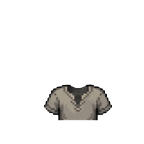
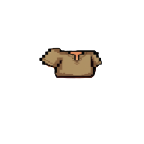
UI: 布の服と鎖の鎧の装備位置を微調整

Changed region(s): [[0.3056, 0.5833, 0.7778, 0.8611], [0.25, 0.3333, 0.7222, 0.5556]]

diff --git a/script.js b/script.js
@@ -677,7 +677,7 @@ const ITEM_MASTER = [
     // ★1 (Rarity 1)
     // visuals: { x: 横位置(%), y: 縦位置(%), scale: 拡大率, width: 幅(任意, 指定なければ100%でscale適用) }
     { id: 0, name: "木の剣", rarity: 1, file: "小さな剣.png", type: "weapon", effects: { focus: 2 }, description: "冒険の始まりといえばこれ。", equipMessage: "木の剣を構えた！少し攻撃的な気分になった！", visuals: { x: 30, y: 35, width: 15 }, equipImage: "./assets/player_sword_fixed.png" },
-    { id: 1, name: "布の服", rarity: 1, file: "布の服.png", type: "armor", effects: { strength: 2 }, description: "軽くて動きやすい。", equipMessage: "布の服を身に纏った。防御力がわずかに上がった。", visuals: { x: 0, y: -1.3, width: 100, origin: "left" }, equipImage: "assets/item/gacha_equipment/布の服.png" },
+    { id: 1, name: "布の服", rarity: 1, file: "布の服.png", type: "armor", effects: { strength: 2 }, description: "軽くて動きやすい。", equipMessage: "布の服を身に纏った。防御力がわずかに上がった。", visuals: { x: 5, y: 24, width: 100, origin: "left" }, equipImage: "assets/item/gacha_equipment/布の服.png" },
     { id: 2, name: "革の靴", rarity: 1, file: "革の靴.png", type: "foot", effects: { focus: 1 }, description: "長時間の勉強（冒険）でも疲れない。", equipMessage: "革の靴を履いた！足取りが軽くなった気がする。", visuals: { x_L: 38, x_R: 58, y: 87.5, width: 16 }, equipImage: "./assets/item/gacha_equipment/Boots2M.png", equipImageR: "./assets/item/gacha_equipment/Boots2M.png" },
     { id: 3, name: "小さな盾", rarity: 1, file: "小さな盾.png", type: "shield", effects: { strength: 1 }, description: "誘惑を跳ね返すための盾。", equipMessage: "小さな盾を構えた！少しだけ守りが固くなった。", visuals: { x: 25, y: 70, width: 30 }, equipImage: "./assets/item/gacha_items/小さな盾_equipped.png" },
     { id: 4, name: "ポーション", rarity: 1, file: "ポーション.png", type: "consumable", useMessage: "ポーションを使った！", description: "疲れが少し取れる魔法の薬。" },
@@ -691,7 +691,7 @@ const ITEM_MASTER = [
 
     // ★2 (Rarity 2)
     { id: 6, name: "鋼の剣", rarity: 2, file: "鋼の剣.png", type: "weapon", effects: { focus: 10 }, description: "鋭い切れ味で課題を切り裂く。", equipMessage: "鋼の剣を装備した。重厚な刃が心強い！", visuals: { x: 45, y: 10, scale: 1.0 }, equipImage: "assets/item/gacha_equipment/鋼の剣.png" },
-    { id: 7, name: "鎖の鎧", rarity: 2, file: "鎖の鎧.png", type: "armor", effects: { strength: 10 }, description: "集中力を守るための頑丈な鎧。", equipMessage: "鎖の鎧を装着した。守備がガッチリ固まった。", visuals: { x: 5, y: 20, scale: 1.0 }, equipImage: "assets/item/gacha_equipment/鋼の鎧.png" },
+    { id: 7, name: "鎖の鎧", rarity: 2, file: "鎖の鎧.png", type: "armor", effects: { strength: 10 }, description: "集中力を守るための頑丈な鎧。", equipMessage: "鎖の鎧を装着した。守備がガッチリ固まった。", visuals: { x: 5, y: 24, scale: 1.0 }, equipImage: "assets/item/gacha_equipment/鋼の鎧.png" },
     { id: 8, name: "魔法の杖", rarity: 2, file: "魔法の杖.png", type: "weapon", effects: { intellect: 10 }, description: "閃きを呼び起こす不思議な杖。", equipMessage: "魔法の杖を握った。知恵が溢れ出してくる...！", visuals: { x: 37, y: 15, scale: 0.3 }, equipImage: "assets/item/gacha_equipment/魔法の杖.png" },
     { id: 9, name: "魔法の本", rarity: 2, file: "魔法の本.png", type: "consumable", effects: { intellect: 10, focus: 10, strength: 10 }, description: "難しい知識が詰まっている。", useMessage: "魔法の本を読んだ！未知の知識が頭に流れ込む…全能力が上昇した！" },
     { id: 18, name: "癒やしのマカロン", rarity: 2, file: "癒しのマカロン.png", type: "consumable", useMessage: "お腹いっぱい！", description: "食べるのがもったいない可愛さ。" },
